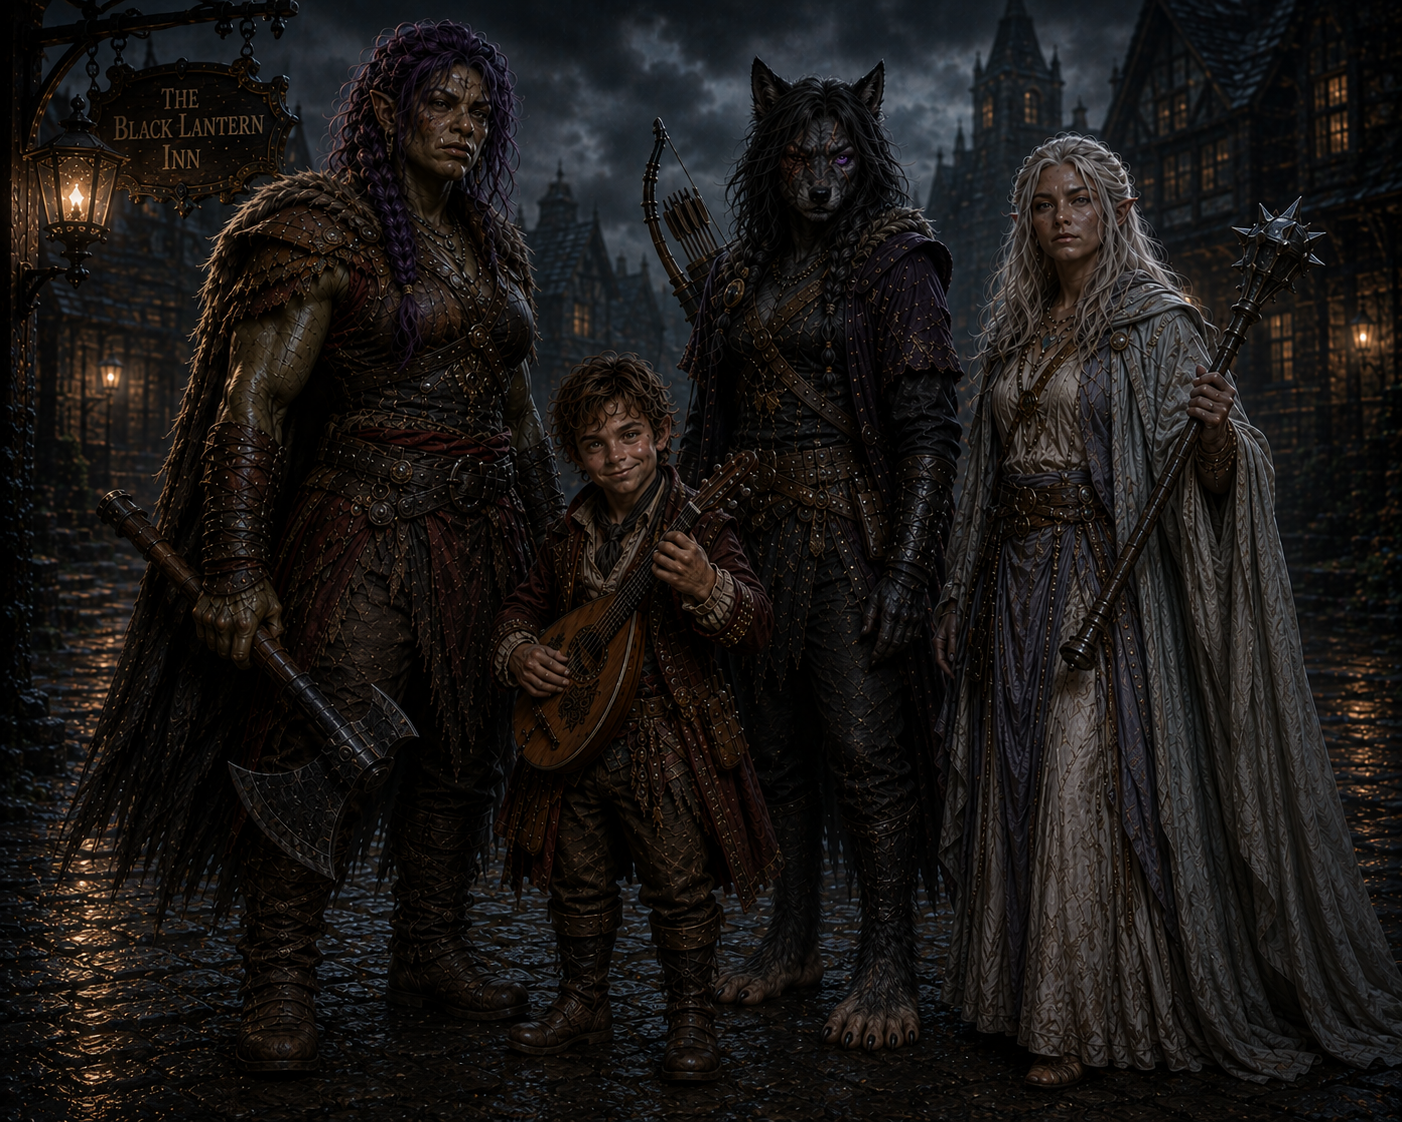
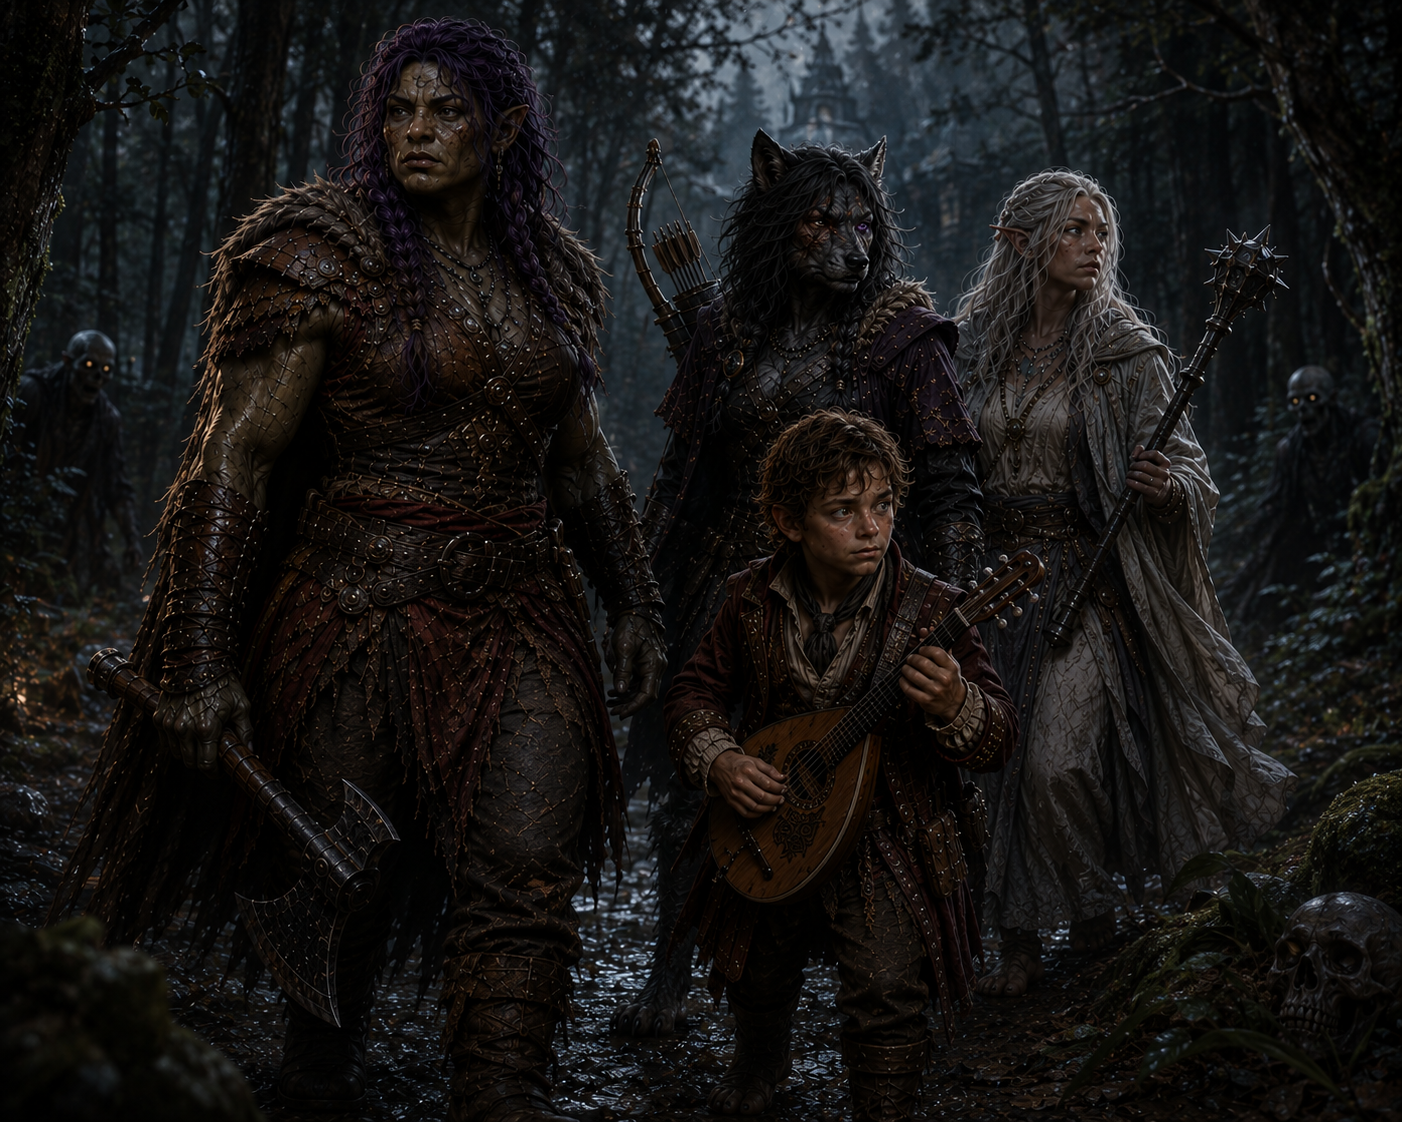
fix the images and color scheme

diff --git a/docs/stylesheets/extra.css b/docs/stylesheets/extra.css
@@ -1,0 +1,31 @@
+/* =========================================
+   RAVENLOST COLOR PALETTE
+   ========================================= */
+
+:root {
+  --ravenlost-burgundy: #713d48;
+  --ravenlost-purple: #80628f;
+  --ravenlost-brass: #b59a62;
+}
+
+
+/* =========================================
+   LIGHT MODE
+   ========================================= */
+
+[data-md-color-scheme="default"] {
+  --md-primary-fg-color: #666666;
+  --md-primary-fg-color--light: #797979;
+  --md-primary-fg-color--dark: #505050;
+}
+
+
+/* =========================================
+   DARK MODE
+   ========================================= */
+
+[data-md-color-scheme="slate"] {
+  --md-primary-fg-color: #555555;
+  --md-primary-fg-color--light: #686868;
+  --md-primary-fg-color--dark: #424242;
+}

diff --git a/docs/chapter1/chapter-01-the-black-lantern-inn.md b/docs/chapter1/chapter-01-the-black-lantern-inn.md
@@ -2,6 +2,8 @@
 
 > *The Mists have a way of gathering those who were never meant to meet.*
 
+![Ravenlost group](../images/ravenlost-chapter1.png)
+
 ---
 
 ## Four strangers in the Mists

diff --git a/docs/index.md b/docs/index.md
@@ -1,3 +1,3 @@
 # The Adventures of Ravenlost
 
-![Ravenlost group](images/ravenlost-chapter1.png)
+![Ravenlost group](images/ravenlost.png)
